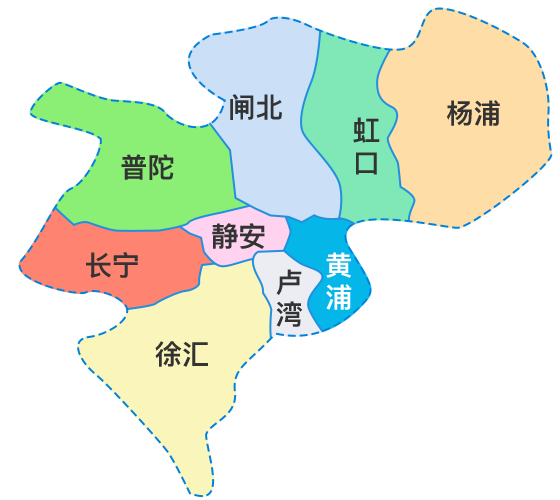
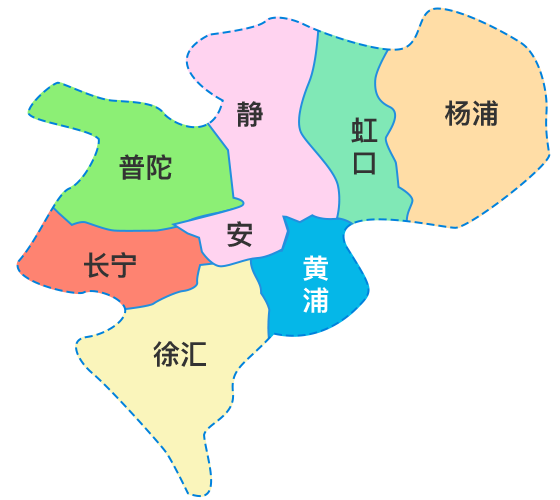
地图背景

diff --git a/application/index/view/trees_map/index.html b/application/index/view/trees_map/index.html
@@ -101,7 +101,7 @@ $(function(){
         xuhui:['44%','23%'],
         zhabei:['-9%','40%'],
         luwan:['35%','42%'],
-        jingan:['24%','38%'],
+        jingan:['13%','45%'],
         hongkou:['-5%','56%'],
         yangpu:['-5%','68%'],
         huangpu:['27%','49%'],
